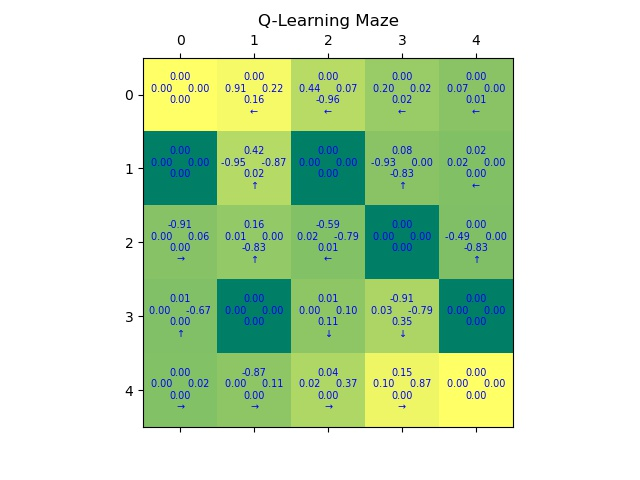
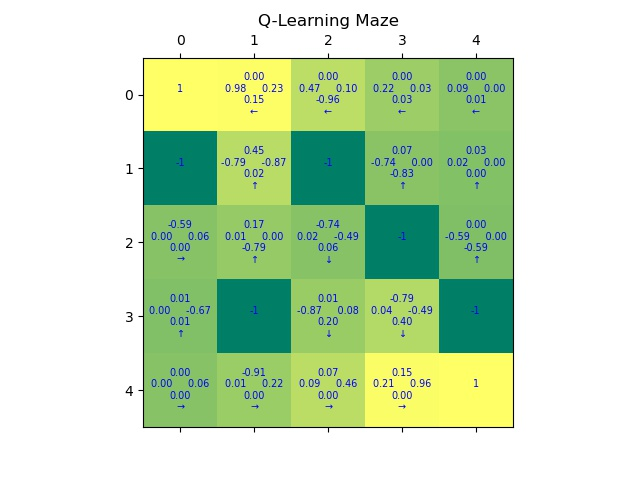
changed labelling for maze. completed q learning example

diff --git a/q-maze.py b/q-maze.py
@@ -246,12 +246,15 @@ reward_ls = ((0, 0), (4, 4))
 punish_ls = ((1, 0), (3, 1), (2, 3), (3, 4), (1, 2))
 
 # code for display of grid and hardcoded terminal states editing
+
+
 def edit_array(reward_grid, reward_ls, punish_ls, reward_val, punish_val):
     for elem in reward_ls:
         reward_grid[elem] = reward_val
     for elem in punish_ls:
         reward_grid[elem] = punish_val
     return reward_grid
+
 
 reward_grid = edit_array(reward_grid, reward_ls,
                          punish_ls, reward_val, punish_val)
@@ -263,6 +266,7 @@ policy = grid.extractPolicy()  # policy function
 value = grid.extractValue()  # value function
 
 # and then overwrite the labels (for hardcoded terminal states)
+qarr = edit_array(qarr, reward_ls, punish_ls, reward_val, punish_val)
 value = edit_array(value, reward_ls, punish_ls, reward_val, punish_val)
 policy = edit_array(policy, reward_ls, punish_ls, '', '')
 
